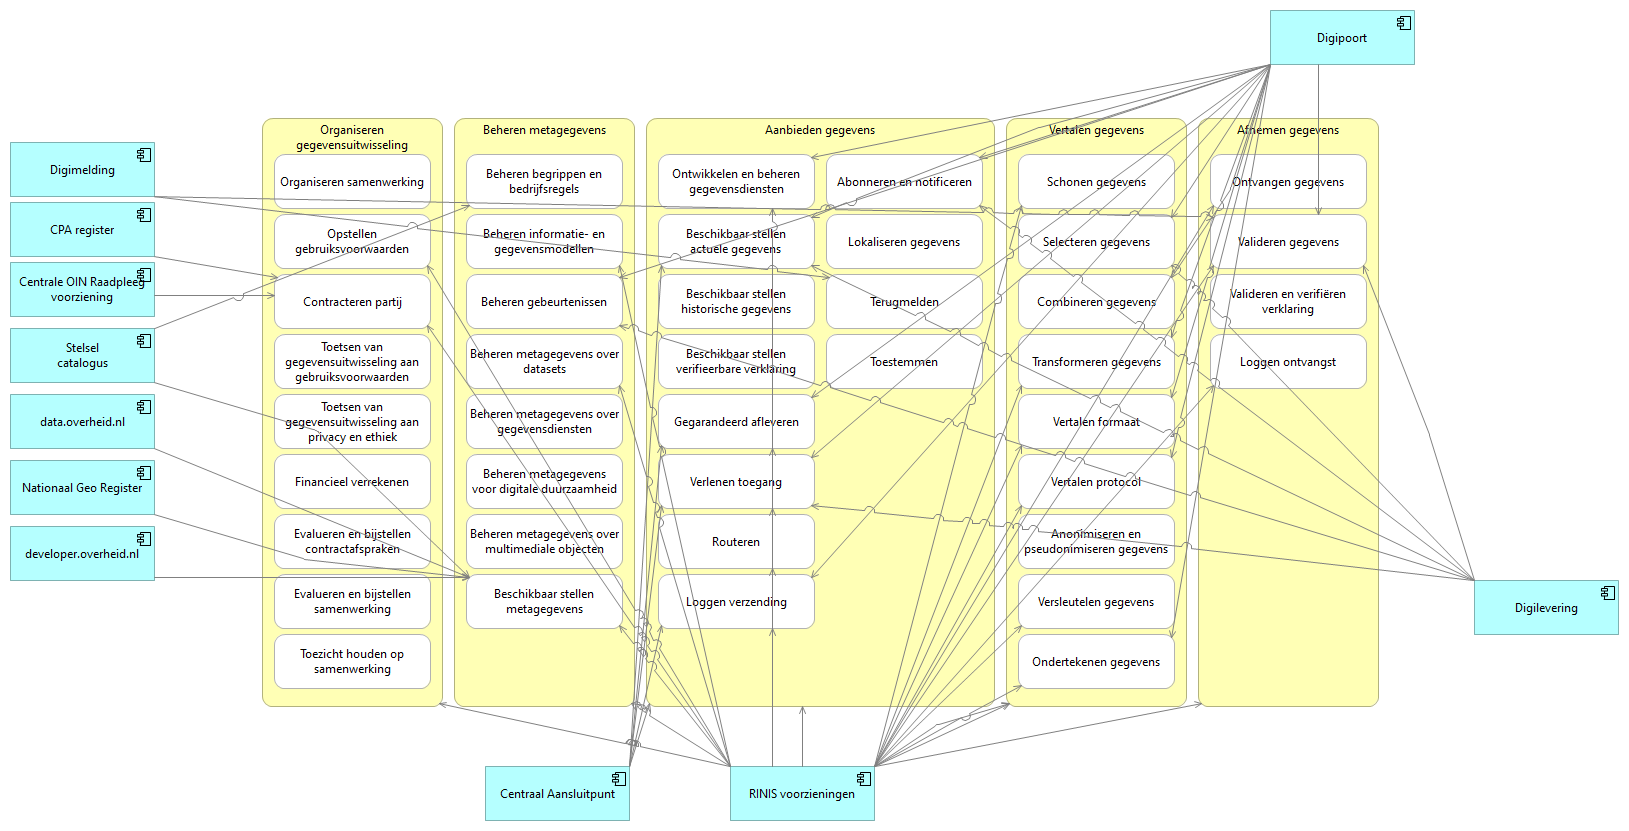
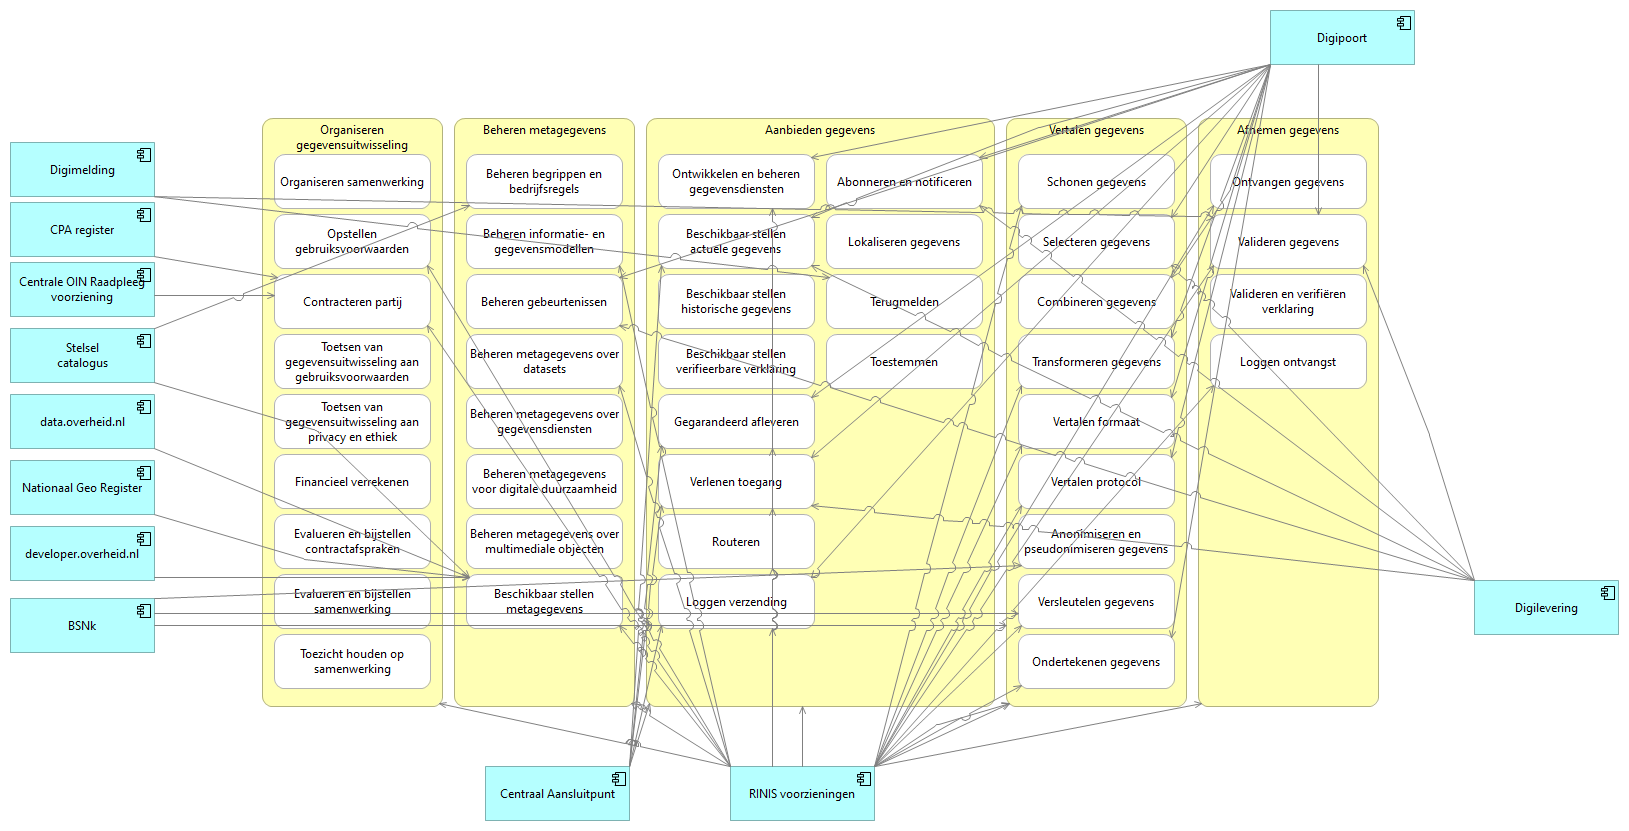
BSNk toegevoegd

diff --git a/docs/index.html b/docs/index.html
@@ -230,6 +230,7 @@
 															<li class="tree-element   "><a href="id-06c6c1de430644b9adb865225da06cba/elements/id-b600393295354608a39ad1d50908c988.html" target="element"> Digilevering </a></li>
 															<li class="tree-element   "><a href="id-06c6c1de430644b9adb865225da06cba/elements/id-c3fe6d693371470caa89bea1b89e384a.html" target="element"> Digipoort </a></li>
 															<li class="tree-element "><a href="id-06c6c1de430644b9adb865225da06cba/elements/id-dfe54c64edd940149c83331f33968fad.html" target="element"> CPA register </a></li>
+															<li class="tree-element   "><a href="id-06c6c1de430644b9adb865225da06cba/elements/id-f417beff3e9f4b6088d2858190e298f4.html" target="element"> BSNk </a></li>
 
 											</ul>
 											</li><li class="tree-folder "><span><i class="glyphicon glyphicon-triangle-right"></i> Overig </span>
@@ -455,7 +456,7 @@
 															<li class="tree-element        "><a href="id-06c6c1de430644b9adb865225da06cba/elements/id-8418d8cf38694245bdd592d1a4583f1e.html" target="element"> 2.1. Gegevensuitwisseling is federatief georganiseerd </a></li>
 															<li class="tree-element      "><a href="id-06c6c1de430644b9adb865225da06cba/elements/id-95d4a5adf6e44308b2126fb23ae66a73.html" target="element"> 4.1. Gegevens worden geleverd vanuit herbruikbare gegevensdiensten </a></li>
 															<li class="tree-element          "><a href="id-06c6c1de430644b9adb865225da06cba/elements/id-9ad7c4b354e34226a5d86d81f8adf280.html" target="element"> 1.5. De bron van de gegevens is leidend </a></li>
-															<li class="tree-element       "><a href="id-06c6c1de430644b9adb865225da06cba/elements/id-a1d7faf077c6431d81a6acd66ffc5b29.html" target="element"> 1.7. Persoonsgegevens zijn beschermd bij het uitwisselen van gegevens </a></li>
+															<li class="tree-element        "><a href="id-06c6c1de430644b9adb865225da06cba/elements/id-a1d7faf077c6431d81a6acd66ffc5b29.html" target="element"> 1.7. Persoonsgegevens zijn beschermd bij het uitwisselen van gegevens </a></li>
 															<li class="tree-element       "><a href="id-06c6c1de430644b9adb865225da06cba/elements/id-a3ff1bdac53d4cf28526f9f3f360ffcf.html" target="element"> 1.1. Gegevens die kunnen worden gedeeld zijn vindbaar, toegankelijk, interoperabel en herbruikbaar </a></li>
 															<li class="tree-element    "><a href="id-06c6c1de430644b9adb865225da06cba/elements/id-b72405ee2dea40629a0a330260ede075.html" target="element"> 4.3. Aanbieders kunnen notificeren over belangrijke gebeurtenissen </a></li>
 															<li class="tree-element        "><a href="id-06c6c1de430644b9adb865225da06cba/elements/id-bd8dcf895771403b83f1391690898a82.html" target="element"> 3.3. Gegevens worden contextrijk vastgelegd </a></li>
@@ -1765,6 +1766,10 @@
 															<span class="i18n-elementtype-AssociationRelationship"></span>
 														(Beschikbaar stellen historische gegevens - SD-JWT VC) 
 													</a></li>
+													<li class="tree-element "><a href="id-06c6c1de430644b9adb865225da06cba/elements/id-940a03fd8313437da490c55aadad1b20.html" target="element">
+															<span class="i18n-elementtype-AssociationRelationship"></span>
+														(Organiseren gegevensuitwisseling - 1.7. Persoonsgegevens zijn beschermd bij het uitwisselen van gegevens) 
+													</a></li>
 													<li class="tree-element "><a href="id-06c6c1de430644b9adb865225da06cba/elements/id-9479e6e915d9426b95c170e7ae02485b.html" target="element">
 															is toegankelijk via
 														(Dataset - Gegevensdienst) 
@@ -2252,6 +2257,10 @@
 													<li class="tree-element "><a href="id-06c6c1de430644b9adb865225da06cba/elements/id-de72f87636534ed19236a7811480a1a3.html" target="element">
 															<span class="i18n-elementtype-AssociationRelationship"></span>
 														(Valideren gegevens - XML Schema) 
+													</a></li>
+													<li class="tree-element "><a href="id-06c6c1de430644b9adb865225da06cba/elements/id-e06efe55d12b41f98d9fa5304c9f669c.html" target="element">
+															<span class="i18n-elementtype-AssociationRelationship"></span>
+														(Vertalen gegevens - 1.7. Persoonsgegevens zijn beschermd bij het uitwisselen van gegevens) 
 													</a></li>
 													<li class="tree-element "><a href="id-06c6c1de430644b9adb865225da06cba/elements/id-e13d58fa574c444fa36e6f54d2215ae4.html" target="element">
 															<span class="i18n-elementtype-AssociationRelationship"></span>
@@ -3453,9 +3462,17 @@
 															<span class="i18n-elementtype-SpecializationRelationship"></span>
 														(Beperkingsregel - Regel) 
 													</a></li>
-													<li class="tree-element "><a href="id-06c6c1de430644b9adb865225da06cba/elements/id-940a03fd8313437da490c55aadad1b20.html" target="element">
-															<span class="i18n-elementtype-AssociationRelationship"></span>
-														(Organiseren gegevensuitwisseling - 1.7. Persoonsgegevens zijn beschermd bij het uitwisselen van gegevens) 
+													<li class="tree-element "><a href="id-06c6c1de430644b9adb865225da06cba/elements/id-da7edaa345a7408f84e703dd1dab296e.html" target="element">
+															<span class="i18n-elementtype-ServingRelationship"></span>
+														(BSNk - Anonimiseren en pseudonimiseren gegevens) 
+													</a></li>
+													<li class="tree-element "><a href="id-06c6c1de430644b9adb865225da06cba/elements/id-689c96395eb844b29d9f5bac2f56c26d.html" target="element">
+															<span class="i18n-elementtype-ServingRelationship"></span>
+														(BSNk - Versleutelen gegevens) 
+													</a></li>
+													<li class="tree-element "><a href="id-06c6c1de430644b9adb865225da06cba/elements/id-25e2544c981943f2a31a478a00e4fd89.html" target="element">
+															<span class="i18n-elementtype-ServingRelationship"></span>
+														(BSNk - Vertalen gegevens) 
 													</a></li>
 
 									</ul>

diff --git a/docs/id-06c6c1de430644b9adb865225da06cba/views/id-c15721baeefd4a45b2809fcea06f8428.html b/docs/id-06c6c1de430644b9adb865225da06cba/views/id-c15721baeefd4a45b2809fcea06f8428.html
@@ -33,6 +33,7 @@
 		    <!-- If this is a digram model (has children and no bounds) show the image -->
 			   <img class="diagram" src="../images/id-c15721baeefd4a45b2809fcea06f8428.png" alt="Huidige voorzieningen gerelateerd aan functiemodel" usemap="#id-c15721baeefd4a45b2809fcea06f8428map"/>
 			   <map name="id-c15721baeefd4a45b2809fcea06f8428map">
+				  		<area shape="rect" coords="10,598,155,653" href="../elements/id-f417beff3e9f4b6088d2858190e298f4.html"  target="element">
 				  		<area shape="rect" coords="10,202,155,257" href="../elements/id-dfe54c64edd940149c83331f33968fad.html"  target="element">
 				  		<area shape="rect" coords="485,766,630,821" href="../elements/id-0b707b5b0cd746078e937a088f499aba.html"  target="element">
 				  		<area shape="rect" coords="730,766,875,821" href="../elements/id-3503096184b0469cb2a6d88074aef990.html"  target="element">
@@ -527,6 +528,13 @@
 											<tr>
 											    <td> <a href="../elements/id-dfe54c64edd940149c83331f33968fad.html" target="element"> CPA register </a> </td>
 											    <td> <a href="../elements/id-dfe54c64edd940149c83331f33968fad.html" target="element" class="i18n-elementtype-ApplicationComponent">
+											    	(Huidige voorziening)
+											    </a> </td>
+											</tr>
+
+											<tr>
+											    <td> <a href="../elements/id-f417beff3e9f4b6088d2858190e298f4.html" target="element"> BSNk </a> </td>
+											    <td> <a href="../elements/id-f417beff3e9f4b6088d2858190e298f4.html" target="element" class="i18n-elementtype-ApplicationComponent">
 											    	(Huidige voorziening)
 											    </a> </td>
 											</tr>
@@ -1272,6 +1280,28 @@
 																		</a> </td>
 																		<td> <a href="../elements/id-dfe54c64edd940149c83331f33968fad.html" target="element"> CPA register </a> </td>
 																		<td> <a href="../elements/id-39f6f8b9cd4644899f7436319b567b77.html" target="element"> Contracteren partij </a> </td>
+																	</tr>
+
+																	<tr>
+																		<td> <a href="../elements/id-da7edaa345a7408f84e703dd1dab296e.html" target="element">  </a> </td>
+																		<td> <a href="../elements/id-da7edaa345a7408f84e703dd1dab296e.html" target="element" class="i18n-elementtype-ServingRelationship">
+																		</a> </td>
+																		<td> <a href="../elements/id-f417beff3e9f4b6088d2858190e298f4.html" target="element"> BSNk </a> </td>
+																		<td> <a href="../elements/id-ca0d41ec8062445a803b463b7b88a4c9.html" target="element"> Anonimiseren en pseudonimiseren gegevens </a> </td>
+																	</tr>
+																	<tr>
+																		<td> <a href="../elements/id-689c96395eb844b29d9f5bac2f56c26d.html" target="element">  </a> </td>
+																		<td> <a href="../elements/id-689c96395eb844b29d9f5bac2f56c26d.html" target="element" class="i18n-elementtype-ServingRelationship">
+																		</a> </td>
+																		<td> <a href="../elements/id-f417beff3e9f4b6088d2858190e298f4.html" target="element"> BSNk </a> </td>
+																		<td> <a href="../elements/id-653ab3c904ca4f04bd358b3eebd7cb46.html" target="element"> Versleutelen gegevens </a> </td>
+																	</tr>
+																	<tr>
+																		<td> <a href="../elements/id-25e2544c981943f2a31a478a00e4fd89.html" target="element">  </a> </td>
+																		<td> <a href="../elements/id-25e2544c981943f2a31a478a00e4fd89.html" target="element" class="i18n-elementtype-ServingRelationship">
+																		</a> </td>
+																		<td> <a href="../elements/id-f417beff3e9f4b6088d2858190e298f4.html" target="element"> BSNk </a> </td>
+																		<td> <a href="../elements/id-592dc350d1034ca280d27157e17ba09d.html" target="element"> Vertalen gegevens </a> </td>
 																	</tr>
 
 
